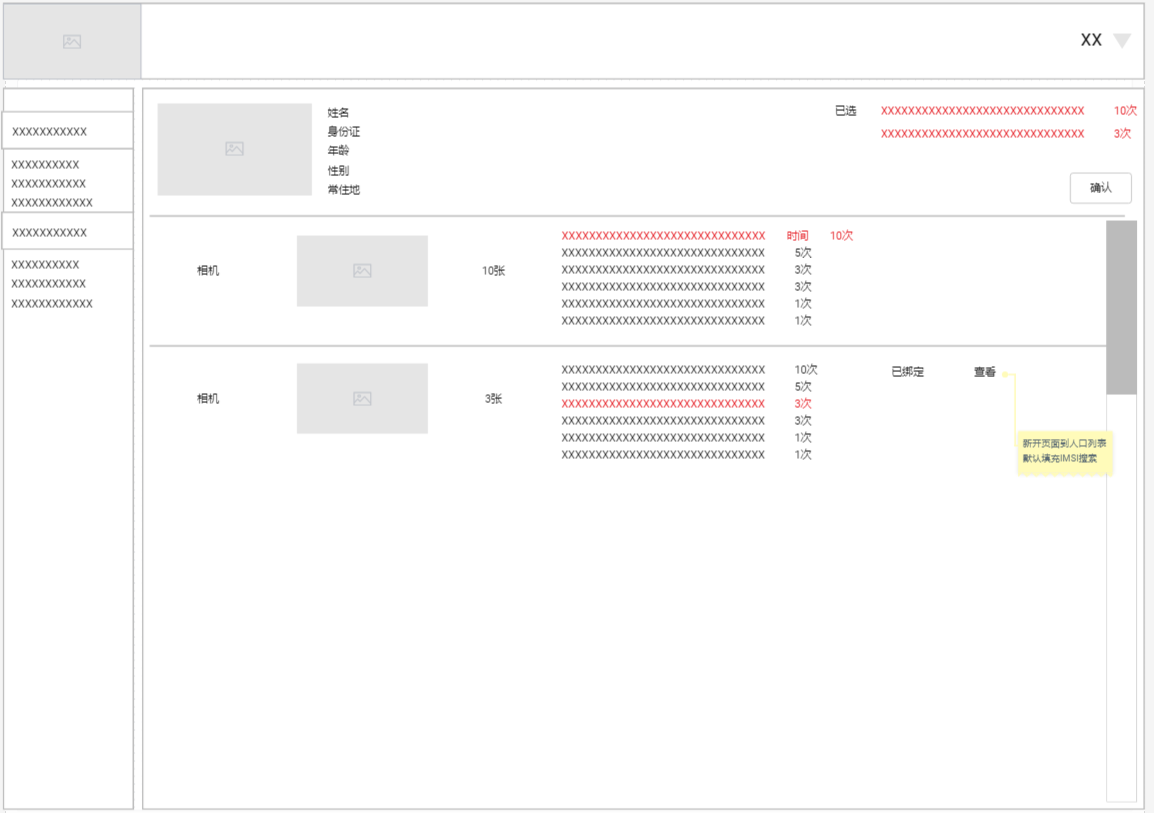
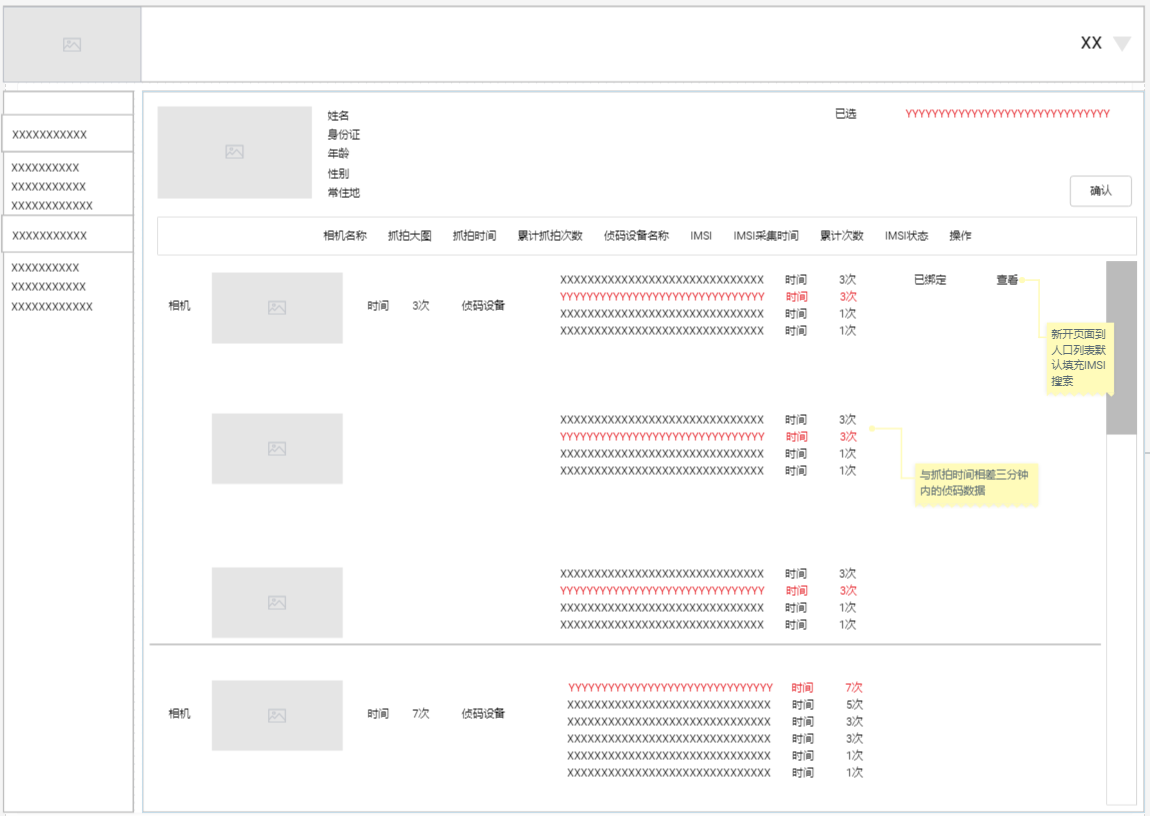
1

diff --git a/醒目云后台/人口库/数据融合列表.md b/醒目云后台/人口库/数据融合列表.md
@@ -25,6 +25,7 @@
 | 字段名        | 定义                                 |
 | :--------- | ---------------------------------- |
 | 数据融合\|一标三识 | 以人员档案为基础，对一个人进行人脸、IMSI、车牌数据的碰撞融合绑定 |
+| 有效抓拍       | 抓拍图经过数据融合业务判断认为有效，详见数据逻辑描述         |
 
 
 
@@ -53,35 +54,48 @@
 
 #####数据逻辑
 
+![](https://raw.githubusercontent.com/dalin1991/brighteye/master/%E5%9B%BE%E7%89%87/%E6%95%B0%E6%8D%AE%E8%9E%8D%E5%90%88%E9%80%BB%E8%BE%91.png)
 
+	*该图示流程仅用于表达数据融合的数据来源逻辑，不用于其他任何功能模块的业务逻辑表达，如布控、实有人口逻辑等*
+
+	图示流程中，数据融合的数据来源于附近有侦码的相机抓拍到的正脸图像，与人口库比对成功后，视为该人员的一次有效抓拍。如果该人员还未打上IMSI的标记，则这些数据将被用于数据融合操作。
+
+	**在经过一段时间的运营人工数据融合操作以后，通过运营反馈数据融合模型并验证其有效性后，则将此数据融合操作自动化。**
 
 ------
 
 ### 产品功能
 
-#####人口库列表检索
+#####数据融合列表
 
 ######界面
 
-![](https://raw.githubusercontent.com/dalin1991/brighteye/master/%E5%9B%BE%E7%89%87/%E4%BA%BA%E5%8F%A3%E5%88%97%E8%A1%A8.jpg)
+![](https://raw.githubusercontent.com/dalin1991/brighteye/master/%E5%9B%BE%E7%89%87/%E6%95%B0%E6%8D%AE%E8%9E%8D%E5%90%88%E5%88%97%E8%A1%A8.png)
 
 ###### 功能说明
 
 ```
 检索功能
-1. 	第一次进入默认搜索
+1. 	第一次进入不默认搜索
+2.	区域选择器为必选项，精确到区级
+3.	有效抓拍次数可填，默认10次
+```
+
+```
+交互
+	点击融合按钮调整融合确认页
 ```
 
 
 
-#####新增人口表单
+#####数据融合确认表单
 
 ###### 界面
 
-![](https://raw.githubusercontent.com/dalin1991/brighteye/master/%E5%9B%BE%E7%89%87/%E6%96%B0%E5%A2%9E%E4%BA%BA%E5%8F%A3.png)
+![](https://raw.githubusercontent.com/dalin1991/brighteye/master/%E5%9B%BE%E7%89%87/%E6%95%B0%E6%8D%AE%E8%9E%8D%E5%90%88%E7%A1%AE%E8%AE%A4%E8%A1%A8%E5%8D%95.png)
 
 ###### 功能说明
 
-```jade
+```
 
 ```

diff --git a/醒目云后台/人口库/人口列表.md b/醒目云后台/人口库/人口列表.md
@@ -72,8 +72,8 @@
 检索功能
 1. 	第一次进入默认不触发搜索，因为人口库是一个范围非常广的数据，无条件检索是没有意义的
 2. 	第一个搜索框模糊检索匹配姓名、身份证、IMSI、手机号
-3. 	搜索强制选择省市区选择器到市一级，检索限制前端做
-4. 	小区选择器基于市级选择后请求出小区数据，无小区数据的市显示为”无“，非必选项
+3. 	搜索强制选择省市区选择器到区级，检索限制前端做
+4. 	小区选择器基于区级选择后请求出小区数据，无小区数据则仅显示"全部"，非必选项
 5.	不选择区域、系统错误等错误弹窗提示
 ```
 
@@ -100,12 +100,12 @@
 
 ###### 功能说明
 
-```jade
+```
 基础信息录入
-	表单录入时，姓名、身份证为必填项，其余为选填项
+	表单录入时，姓名、身份证、区域为必填项，其余为选填项
     图片录入中，我们实际采集的图片单独一个分类，用于后期的业务功能
 交互
 	图中+表示点击后增加一个输入项
     标签信息为多选项，点击后选择项边框变为红色
-    区域选择器精确到市，录入时根据籍贯或身份证地址确认
+    区域选择器精确到区，录入时根据籍贯或身份证地址确认
 ```
